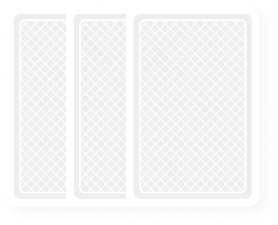
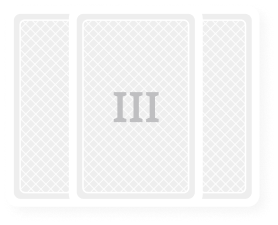
feat: 스프레드 이미지 교체, 카드 상세 팝업 추가, 헤더 카테고리 표시
- 원카드/쓰리카드 스프레드 선택 이미지를 로마숫자 포함 디자인으로 교체
- 결과 페이지에서 카드 클릭 시 WDS Modal 기반 상세 팝업 추가
- 헤더 스텝 3단계를 카테고리명(직장 운세/재물 운세/연애 운세)으로 동적 표시
- 결과 카드 키워드에서 카테고리 태그 제거

Changed region(s): [[0.4029, 0.4044, 0.5755, 0.56]]

diff --git a/src/components/tarot/CardFlip.tsx b/src/components/tarot/CardFlip.tsx
@@ -1,8 +1,18 @@
 "use client";
 
-import { useState, useEffect } from "react";
+import { useState, useEffect, useCallback } from "react";
 import Image from "next/image";
-import { FlexBox } from "@wanteddev/wds";
+import {
+  FlexBox,
+  Typography,
+  Modal,
+  ModalContainer,
+  ModalContent,
+  ModalContentItem,
+  ModalClose,
+  Divider,
+  ContentBadge,
+} from "@wanteddev/wds";
 import type { Orientation } from "@/lib/tarot/types";
 
 interface CardFlipProps {
@@ -26,7 +36,12 @@ export function CardFlip({
   size = "default",
 }: CardFlipProps) {
   const [flipped, setFlipped] = useState(false);
+  const [showModal, setShowModal] = useState(false);
   const { width, height } = SIZES[size];
+
+  const openModal = useCallback(() => {
+    if (flipped) setShowModal(true);
+  }, [flipped]);
 
   useEffect(() => {
     const prefersReducedMotion = window.matchMedia(
@@ -42,80 +57,171 @@ export function CardFlip({
   }, [delay]);
 
   return (
-    <FlexBox
-      sx={(theme) => ({
-        position: "relative",
-        width: `${width}px`,
-        height: `${height}px`,
-        perspective: "800px",
-        borderRadius: flipped ? "12px" : "0px",
-        boxShadow: flipped ? theme.semantic.elevation.shadow.normal.small : "none",
-        transition: "box-shadow 0.5s ease 0.4s, border-radius 0.5s ease 0.4s",
-      })}
-    >
-      <div
-        style={{
+    <>
+      <FlexBox
+        onClick={openModal}
+        sx={(theme) => ({
           position: "relative",
-          width: "100%",
-          height: "100%",
-          transition: "transform 0.8s cubic-bezier(0.4, 0, 0.2, 1)",
-          transformStyle: "preserve-3d",
-          transform: flipped ? "rotateY(180deg)" : "rotateY(0deg)",
-        }}
-        aria-label={
-          flipped
-            ? `${cardNameKo} - ${orientation === "reversed" ? "역방향" : "정방향"}`
-            : "카드 공개 대기 중"
-        }
-        role="img"
+          width: `${width}px`,
+          height: `${height}px`,
+          perspective: "800px",
+          borderRadius: flipped ? "12px" : "0px",
+          boxShadow: flipped ? theme.semantic.elevation.shadow.normal.small : "none",
+          transition: "box-shadow 0.5s ease 0.4s, border-radius 0.5s ease 0.4s",
+          cursor: flipped ? "pointer" : "default",
+        })}
       >
-        {/* Back */}
         <div
           style={{
-            position: "absolute",
-            inset: 0,
-            borderRadius: "12px",
-            overflow: "hidden",
-            backfaceVisibility: "hidden",
+            position: "relative",
+            width: "100%",
+            height: "100%",
+            transition: "transform 0.8s cubic-bezier(0.4, 0, 0.2, 1)",
+            transformStyle: "preserve-3d",
+            transform: flipped ? "rotateY(180deg)" : "rotateY(0deg)",
           }}
+          aria-label={
+            flipped
+              ? `${cardNameKo} - ${orientation === "reversed" ? "역방향" : "정방향"}`
+              : "카드 공개 대기 중"
+          }
+          role="img"
         >
-          <Image
-            src="/cards/back.webp"
-            alt="카드 뒷면"
-            fill
-            sizes={`${width}px`}
-            style={{ objectFit: "cover" }}
-          />
-        </div>
-        {/* Front */}
-        <div
-          style={{
-            position: "absolute",
-            inset: 0,
-            borderRadius: "12px",
-            overflow: "hidden",
-            backfaceVisibility: "hidden",
-            transform: "rotateY(180deg)",
-          }}
-        >
+          {/* Back */}
           <div
             style={{
-              width: "100%",
-              height: "100%",
-              transform:
-                orientation === "reversed" ? "rotate(180deg)" : "none",
+              position: "absolute",
+              inset: 0,
+              borderRadius: "12px",
+              overflow: "hidden",
+              backfaceVisibility: "hidden",
             }}
           >
             <Image
-              src={`/cards/major/${cardId}.webp`}
-              alt={cardNameKo}
+              src="/cards/back.webp"
+              alt="카드 뒷면"
               fill
               sizes={`${width}px`}
               style={{ objectFit: "cover" }}
             />
           </div>
+          {/* Front */}
+          <div
+            style={{
+              position: "absolute",
+              inset: 0,
+              borderRadius: "12px",
+              overflow: "hidden",
+              backfaceVisibility: "hidden",
+              transform: "rotateY(180deg)",
+            }}
+          >
+            <div
+              style={{
+                width: "100%",
+                height: "100%",
+                transform:
+                  orientation === "reversed" ? "rotate(180deg)" : "none",
+              }}
+            >
+              <Image
+                src={`/cards/major/${cardId}.webp`}
+                alt={cardNameKo}
+                fill
+                sizes={`${width}px`}
+                style={{ objectFit: "cover" }}
+              />
+            </div>
+          </div>
         </div>
-      </div>
-    </FlexBox>
+      </FlexBox>
+
+      <Modal open={showModal} onOpenChange={setShowModal}>
+        <ModalContainer
+          variant="popup"
+          size="medium"
+          wrapperProps={{
+            sx: {
+              justifyContent: "center",
+              alignItems: "center",
+            },
+          }}
+          sx={(theme) => ({
+            borderRadius: "16px",
+            overflow: "hidden",
+            boxShadow: theme.semantic.elevation.shadow.normal.large,
+            backgroundColor: theme.semantic.background.normal.normal,
+            maxWidth: "300px",
+            margin: "0 auto",
+          })}
+        >
+          <FlexBox
+            alignItems="center"
+            justifyContent="center"
+            sx={{
+              position: "relative",
+              height: "48px",
+              flexShrink: 0,
+            }}
+          >
+            <Typography variant="label1" weight="bold">
+              {cardNameKo}
+            </Typography>
+            <ModalClose
+              sx={{
+                position: "absolute",
+                right: "12px",
+                top: "50%",
+                transform: "translateY(-50%)",
+              }}
+              size="small"
+            />
+          </FlexBox>
+
+          <Divider color="semantic.fill.normal" />
+
+          <ModalContent sx={{ paddingTop: "16px" }}>
+            <ModalContentItem>
+              <FlexBox flexDirection="column" alignItems="center" gap="16px">
+                <FlexBox
+                  sx={(theme) => ({
+                    position: "relative",
+                    width: "240px",
+                    height: "360px",
+                    borderRadius: "16px",
+                    overflow: "hidden",
+                    backgroundColor: theme.semantic.background.normal.alternative,
+                    boxShadow: theme.semantic.elevation.shadow.normal.small,
+                  })}
+                >
+                  <div
+                    style={{
+                      width: "100%",
+                      height: "100%",
+                      transform: orientation === "reversed" ? "rotate(180deg)" : "none",
+                    }}
+                  >
+                    <Image
+                      src={`/cards/major/${cardId}.webp`}
+                      alt={cardNameKo}
+                      fill
+                      sizes="240px"
+                      style={{ objectFit: "cover" }}
+                      priority
+                    />
+                  </div>
+                </FlexBox>
+                <ContentBadge
+                  color={orientation === "reversed" ? "accent" : "neutral"}
+                  size="small"
+                >
+                  {orientation === "reversed" ? "역방향" : "정방향"}
+                </ContentBadge>
+              </FlexBox>
+            </ModalContentItem>
+          </ModalContent>
+        </ModalContainer>
+      </Modal>
+    </>
   );
 }

diff --git a/src/app/tarot/layout.tsx b/src/app/tarot/layout.tsx
@@ -1,13 +1,16 @@
 "use client";
 
-import { usePathname, useRouter } from "next/navigation";
+import { Suspense } from "react";
+import { usePathname, useRouter, useSearchParams } from "next/navigation";
 import { FlexBox, IconButton } from "@wanteddev/wds";
 import { IconChevronLeft, IconShare } from "@wanteddev/wds-icon";
 import { StepIndicatorCompact } from "@/components/tarot/StepIndicator";
 import { CustomToast } from "@/components/tarot/CustomToast";
 import { useShareToast } from "@/lib/tarot/useShareToast";
+import { CATEGORY_LABELS } from "@/lib/tarot/types";
+import type { Category } from "@/lib/tarot/types";
 
-const STEPS = ["리딩 선택", "카드 선택", "결과 보기"];
+const BASE_STEPS = ["리딩 선택", "카드 선택", "결과 보기"];
 
 function getStepFromPathname(pathname: string): number {
   if (pathname.includes("/result")) return 2;
@@ -16,16 +19,22 @@ function getStepFromPathname(pathname: string): number {
   return -1;
 }
 
-export default function TarotLayout({
-  children,
-}: {
-  children: React.ReactNode;
-}) {
+function TarotLayoutInner({ children }: { children: React.ReactNode }) {
   const pathname = usePathname();
   const router = useRouter();
+  const searchParams = useSearchParams();
   const isHome = pathname === "/tarot";
   const currentStep = getStepFromPathname(pathname);
   const { toastMessage, toastVisible, handleShare } = useShareToast();
+
+  const categoryParam = searchParams.get("category") as Category | null;
+  const categoryLabel = categoryParam && CATEGORY_LABELS[categoryParam]
+    ? `${CATEGORY_LABELS[categoryParam].label} 운세`
+    : null;
+
+  const steps = categoryLabel
+    ? [BASE_STEPS[0], BASE_STEPS[1], categoryLabel]
+    : BASE_STEPS;
 
   function handleBack() {
     if (window.history.length > 1) {
@@ -70,7 +79,7 @@ export default function TarotLayout({
 
           {currentStep >= 0 && (
             <FlexBox flex="1" justifyContent="center">
-              <StepIndicatorCompact currentStep={currentStep} steps={STEPS} />
+              <StepIndicatorCompact currentStep={currentStep} steps={steps} />
             </FlexBox>
           )}
 
@@ -101,5 +110,17 @@ export default function TarotLayout({
 
       <CustomToast message={toastMessage} visible={toastVisible} />
     </FlexBox>
+  );
+}
+
+export default function TarotLayout({
+  children,
+}: {
+  children: React.ReactNode;
+}) {
+  return (
+    <Suspense>
+      <TarotLayoutInner>{children}</TarotLayoutInner>
+    </Suspense>
   );
 }

diff --git a/src/components/tarot/ReadingResult.tsx b/src/components/tarot/ReadingResult.tsx
@@ -153,9 +153,6 @@ export function ReadingResult({ cards, category, spread }: ReadingResultProps) {
 
             {/* Keywords */}
             <FlexBox gap="6px" sx={{ flexWrap: "wrap" }}>
-              <ContentBadge color="neutral" size="small">
-                {categoryLabel.label}
-              </ContentBadge>
               {cardData.keywords.slice(1).map((kw) => (
                 <ContentBadge key={kw} color="neutral" size="small">
                   {kw}

diff --git a/src/app/globals.css b/src/app/globals.css
@@ -7,3 +7,13 @@
     "Noto Sans KR", "Malgun Gothic", "Apple Color Emoji", "Segoe UI Emoji",
     "Segoe UI Symbol", sans-serif;
 }
+
+@keyframes fadeIn {
+  from { opacity: 0; }
+  to { opacity: 1; }
+}
+
+@keyframes scaleIn {
+  from { opacity: 0; transform: scale(0.85); }
+  to { opacity: 1; transform: scale(1); }
+}
